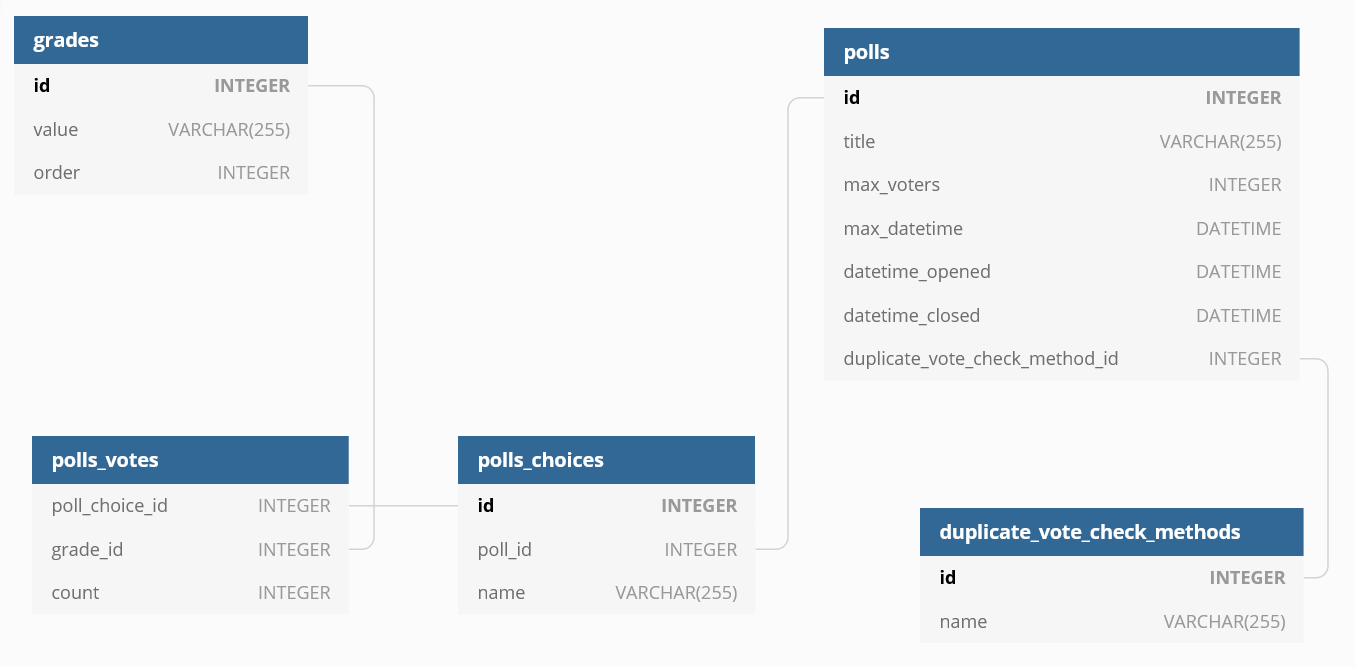
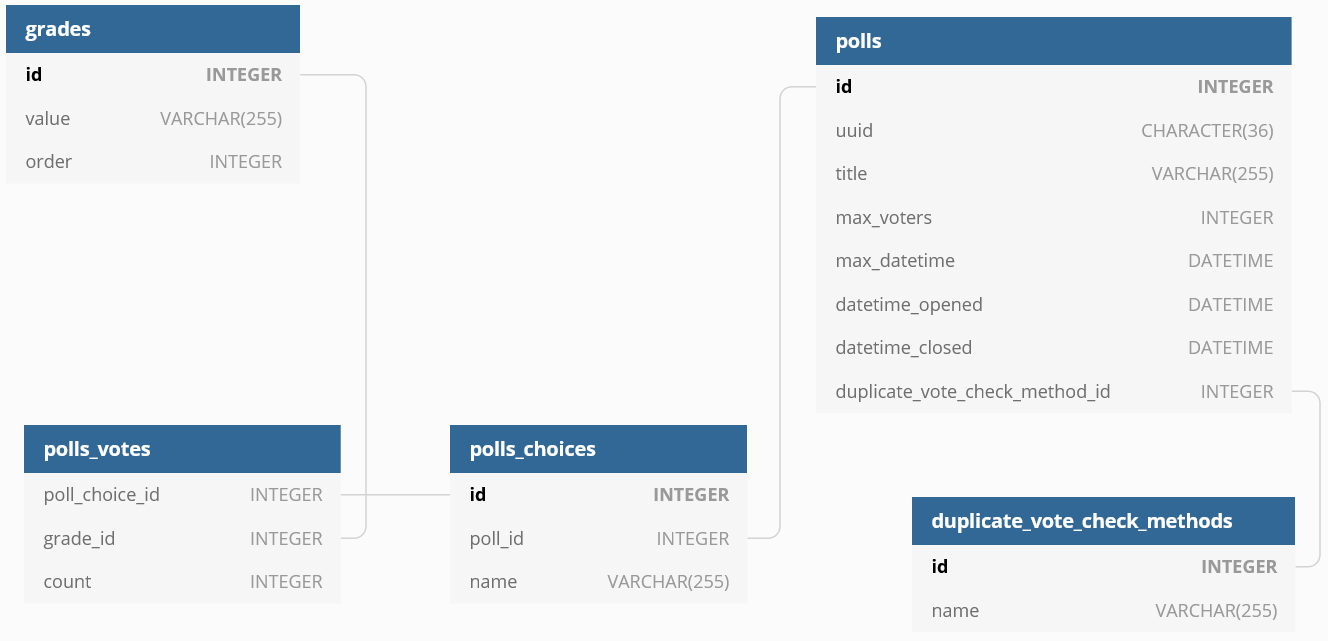
insert uuid in poll record

diff --git a/db/db.js b/db/db.js
@@ -1,5 +1,7 @@
 "use strict";
 
+const { uuid4 } = require('random-js');
+
 module.exports = function (opts) {
 
     const dbUtils = require('./dbUtils.js')({
@@ -7,6 +9,8 @@ module.exports = function (opts) {
     });
 
     const { connect, close, prepareAndExecute, executeStatement, executeLoop } = dbUtils;
+
+    const { randomUUID } = require('../common.js');
 
     exports.getPollsIds = function () {
 
@@ -165,10 +169,12 @@ module.exports = function (opts) {
                 if (ignoreConstraints)
                     db.pragma('ignore_check_constraints = 1');
 
+                const uuid = randomUUID();
+
                 let pollsInsertResult = prepareAndExecute(db, `
-                INSERT INTO polls(title, max_voters, max_datetime)
-                VALUES(?, ?, datetime(?));
-                `, 'run', [data.title, data.maxVotes, data.max_datetime]);
+                INSERT INTO polls(uuid, title, max_voters, max_datetime)
+                VALUES(?, ?, ?, datetime(?));
+                `, 'run', [uuid, data.title, data.maxVotes, data.max_datetime]);
 
                 pollId = pollsInsertResult.lastInsertRowid;
 

diff --git a/common.js b/common.js
@@ -4,6 +4,9 @@ const fs = require('fs');
 const local_config_loader = require('env-config-prompt');
 var path = require('path');
 
+const Random = require('random-js');
+const mt = Random.MersenneTwister19937.autoSeed();
+
 const serverConfig = JSON.parse(
     fs.readFileSync(
         path.resolve(__dirname, 'config.json'),
@@ -21,3 +24,7 @@ Object.assign(serverConfig, local_config);
 
 
 exports.serverConfig = serverConfig;
+
+exports.randomUUID = function () {
+    return Random.uuid4(mt);
+}

diff --git a/static/public/javascripts/postPollCreation.js b/static/public/javascripts/postPollCreation.js
@@ -38,7 +38,7 @@ async function submitHandler(event) {
 
     // console.log(pollId);
 
-    window.location.href = '/newPoll/' + pollId;
+    window.location.href = '/poll/' + pollId;
 
 }
 
